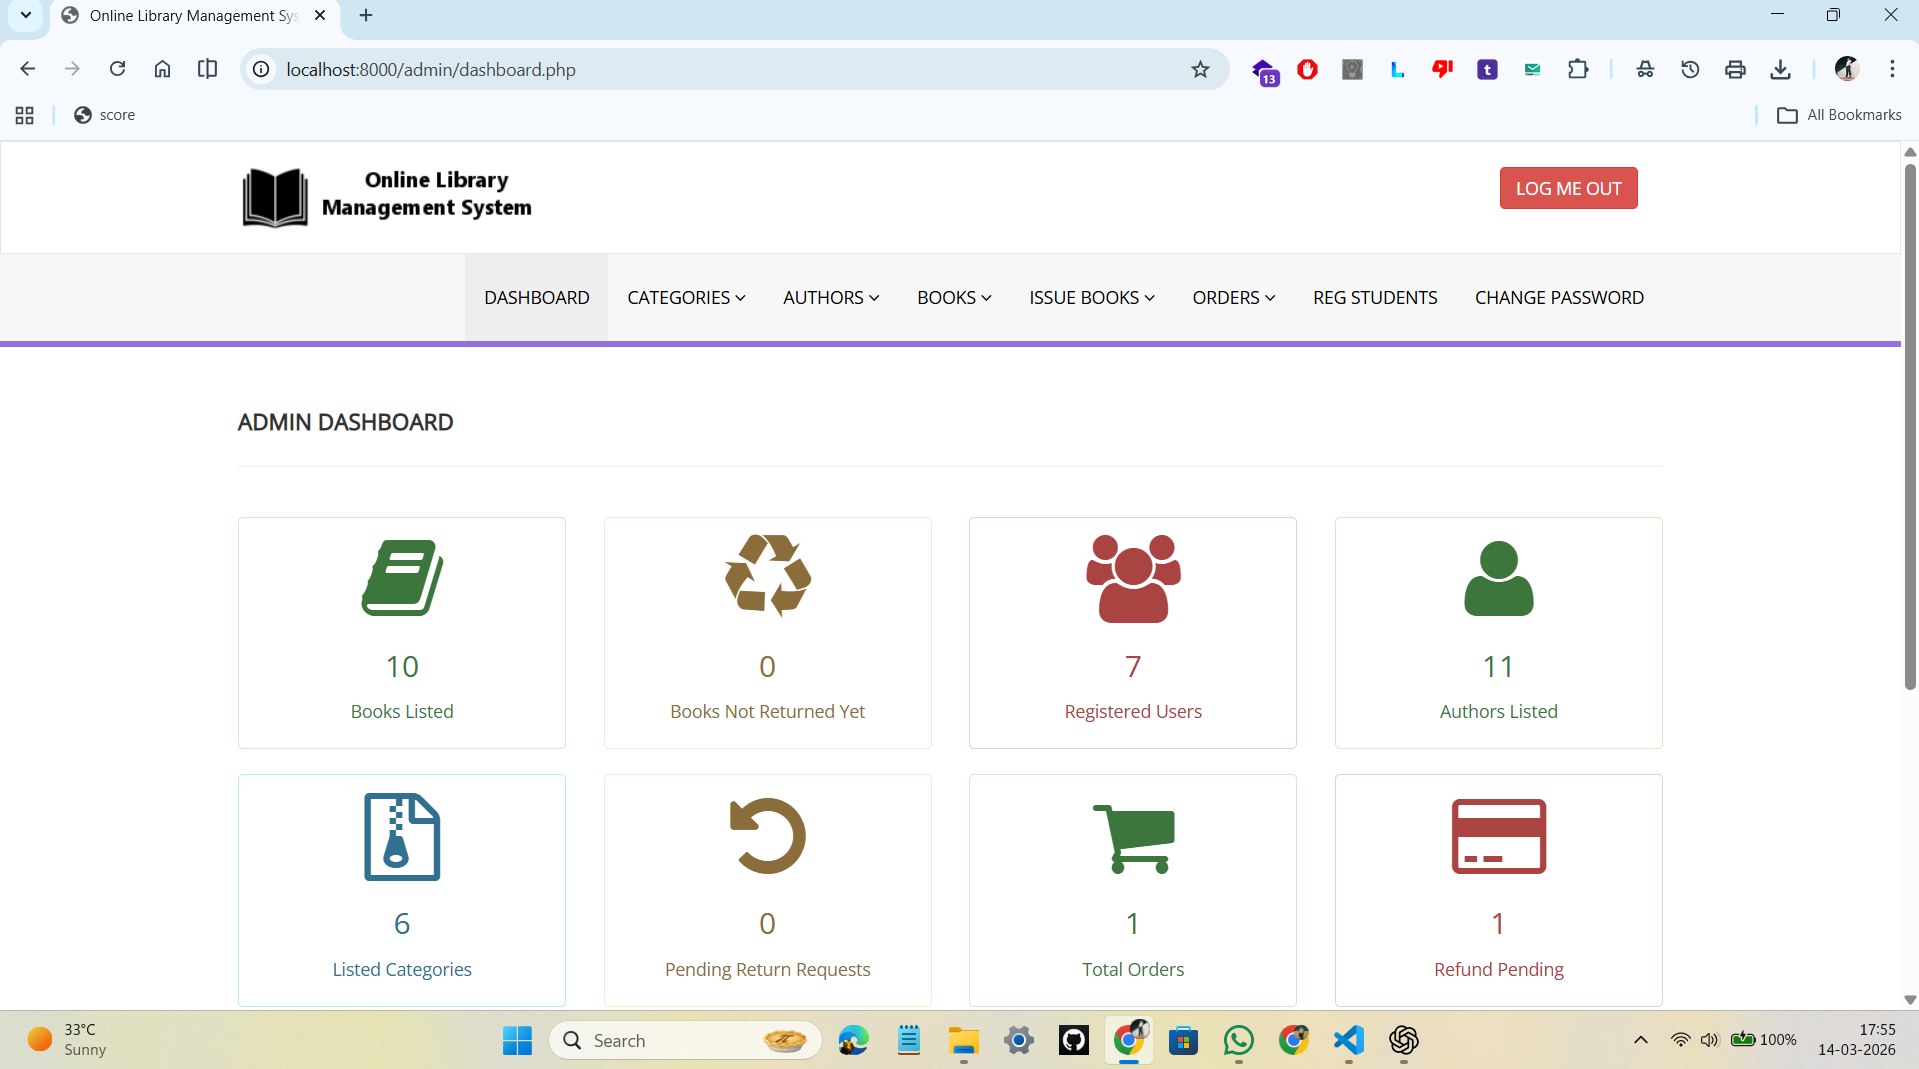
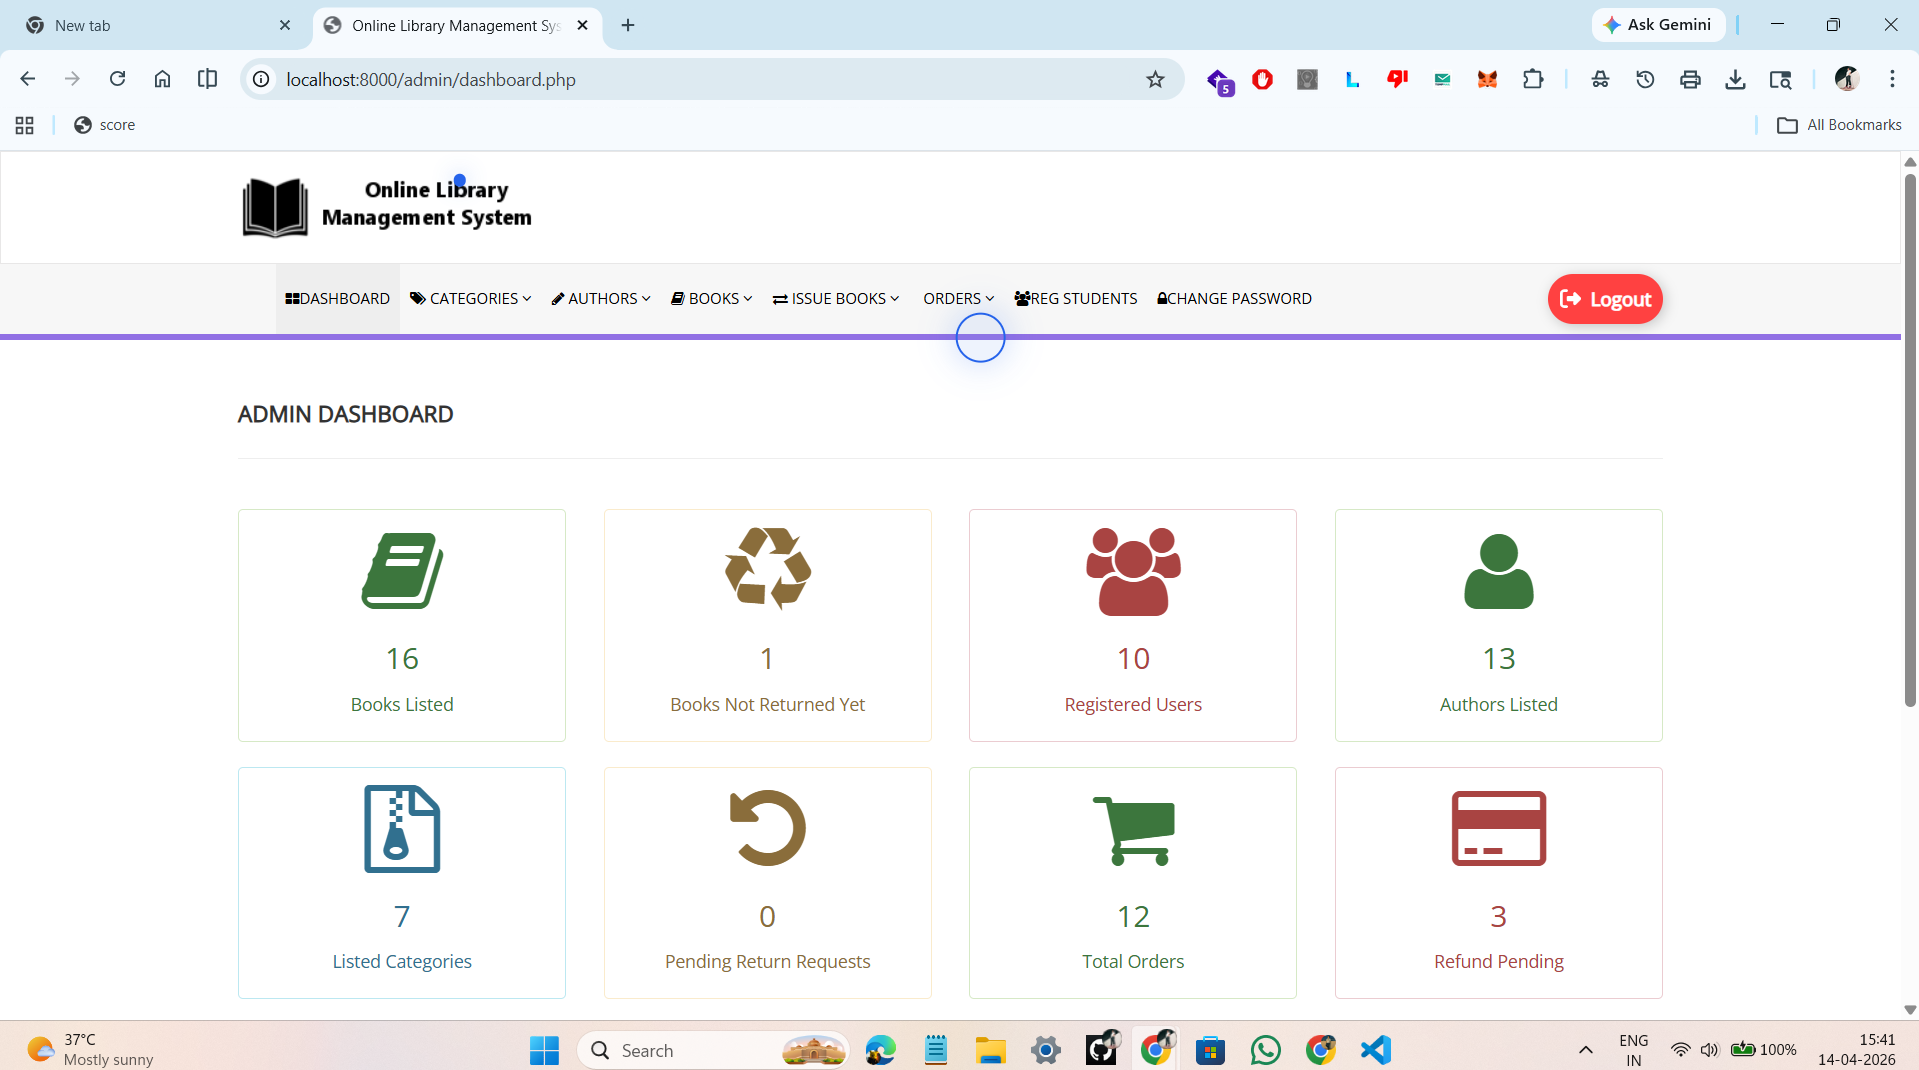
Update README screenshots

diff --git a/README.md b/README.md
@@ -19,29 +19,77 @@ A PHP, MySQL, and Python-based library platform for:
 
 ## Screenshots
 
-### User Book List
+### User Dashboard
 
-![User Book List](library/screenshots/book-list.png)
+Main user landing page after login. It gives quick access to books, orders, issued books, profile details, and other user actions.
 
-### Book Details
+![User Dashboard](library/screenshots/user-dashboard.png)
 
-![Book Details](library/screenshots/book-details.png)
+### Book List
 
-### Cart Page
+Shows the available library books for users to browse, search, view details, and start rental or request actions.
 
-![Cart Page](library/screenshots/cart-page.png)
+![Books](library/screenshots/user-book-list.png)
+
+### Rent Book
+
+Book rental screen where a user can review the selected book and continue with the rent or online access process.
+
+![Rent](library/screenshots/rent-book.png)
+
+### Payment Page
+
+Payment step for the online book rental flow. The user can confirm payment details before submitting the request.
+
+![Payment](library/screenshots/payment-page.png)
+
+### Order History
+
+Lists the user's previous and current book orders with order status information for tracking.
+
+![Orders](library/screenshots/order-history.png)
 
 ### Issued Books
 
+Displays books issued to the user, including issue and return-related information.
+
 ![Issued Books](library/screenshots/issued-books.png)
 
-### User Account Menu
+### User Profile
 
-![User Account Menu](library/screenshots/user-account-option.png)
+User account page for viewing and managing profile details.
+
+![Profile](library/screenshots/user-profile.png)
 
 ### Admin Dashboard
 
+Admin home screen with shortcuts and summary cards for managing the library system.
+
 ![Admin Dashboard](library/screenshots/admin-dashboard.png)
+
+### Admin Login
+
+Admin authentication page used to enter the protected management panel.
+
+![Login](library/screenshots/admin-login.png)
+
+### Manage Orders
+
+Admin order management page for reviewing user orders, checking order details, and updating order status.
+
+![Orders](library/screenshots/manage-orders.png)
+
+### Book Requests
+
+Admin page for reviewing counter issue requests submitted by users and taking approval actions.
+
+![Requests](library/screenshots/book-requests.png)
+
+### Online Requests
+
+Admin page for managing online rental or reading access requests after user payment submission.
+
+![Online](library/screenshots/online-requests.png)
 
 ## Project Structure
 
